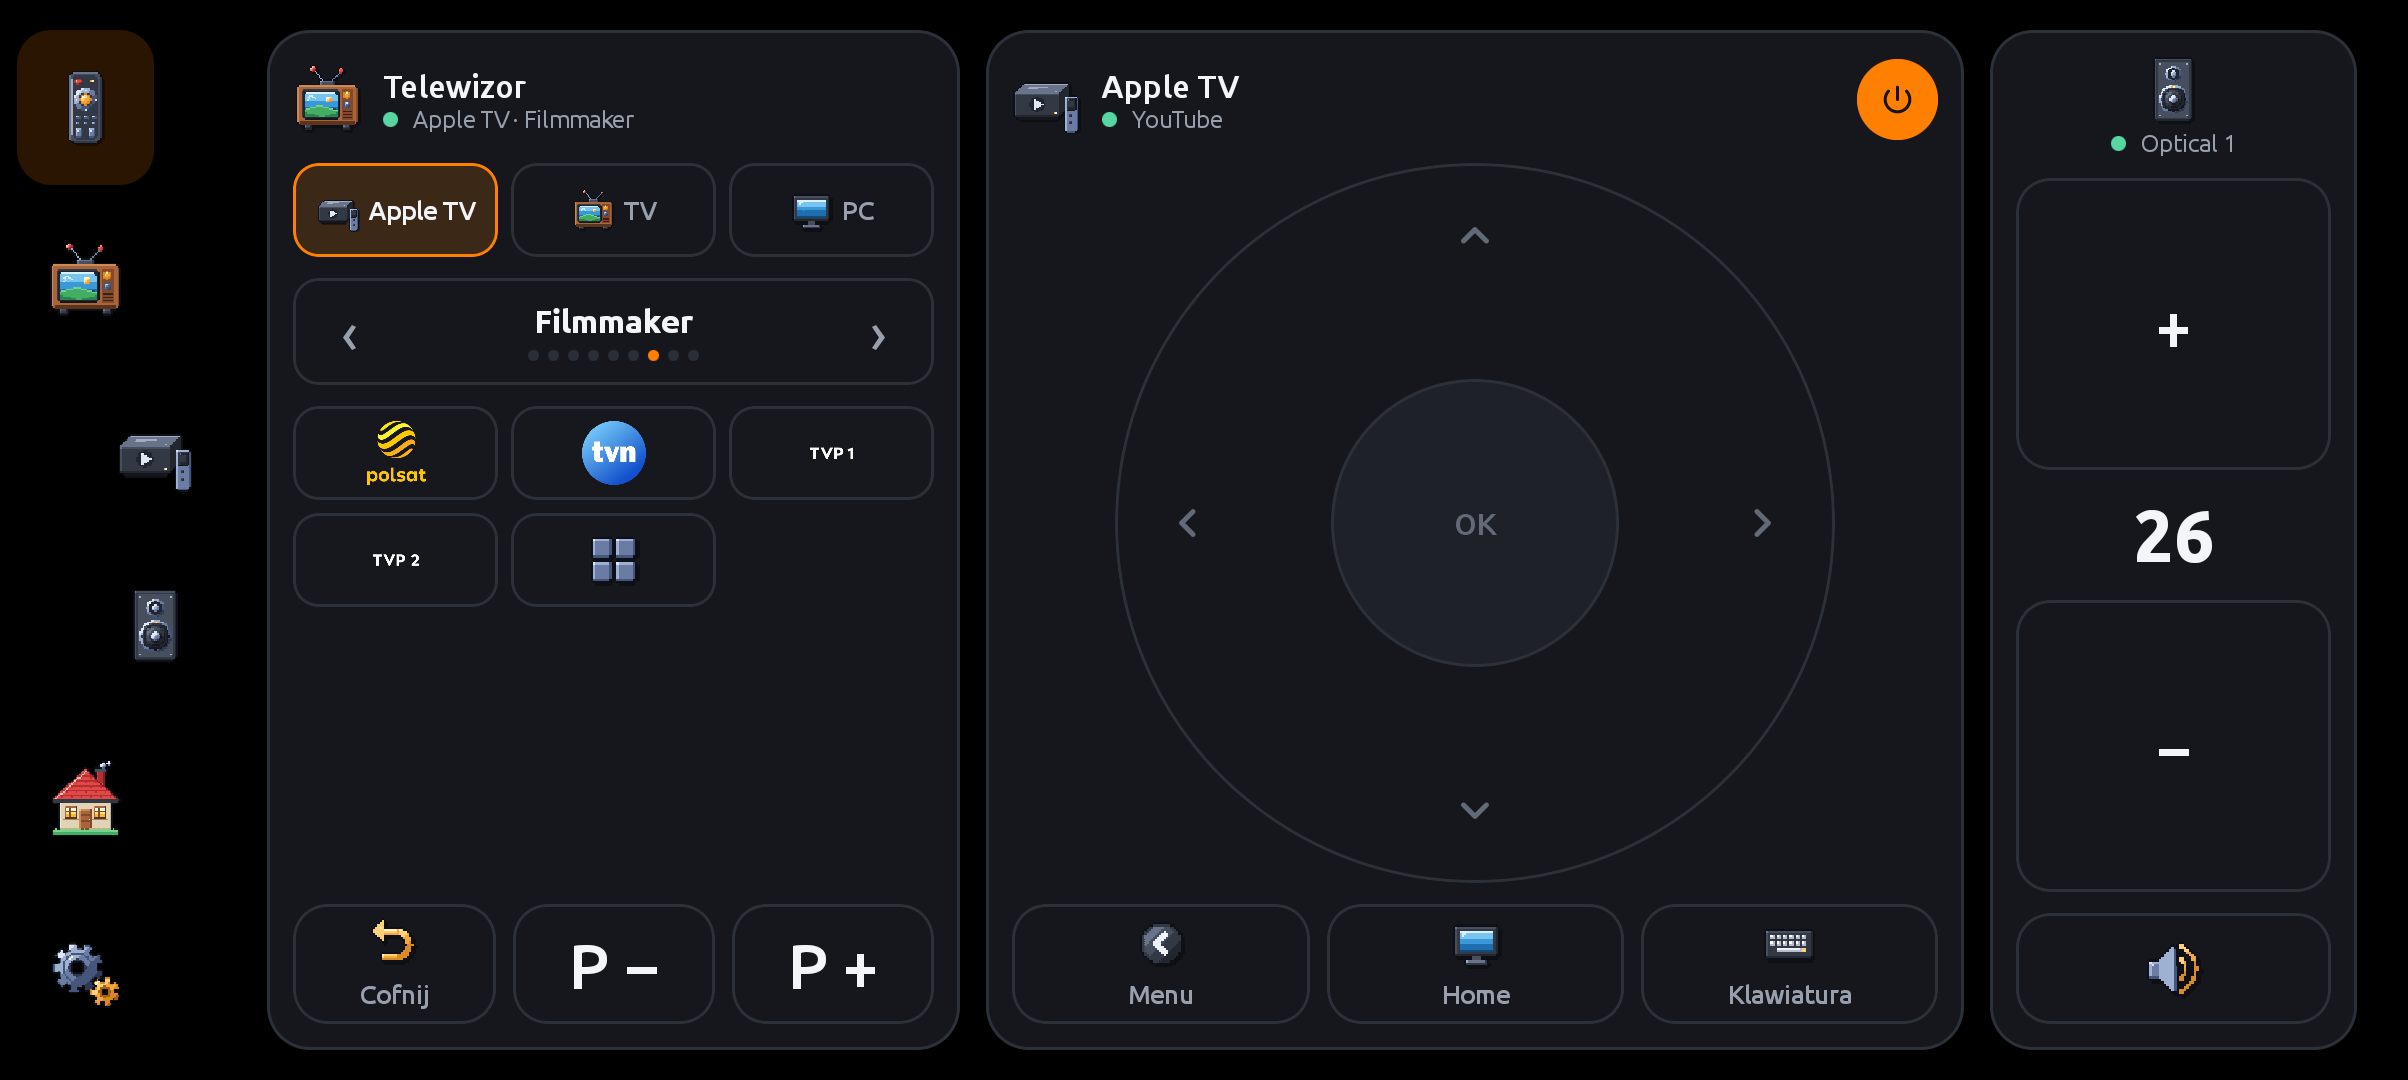
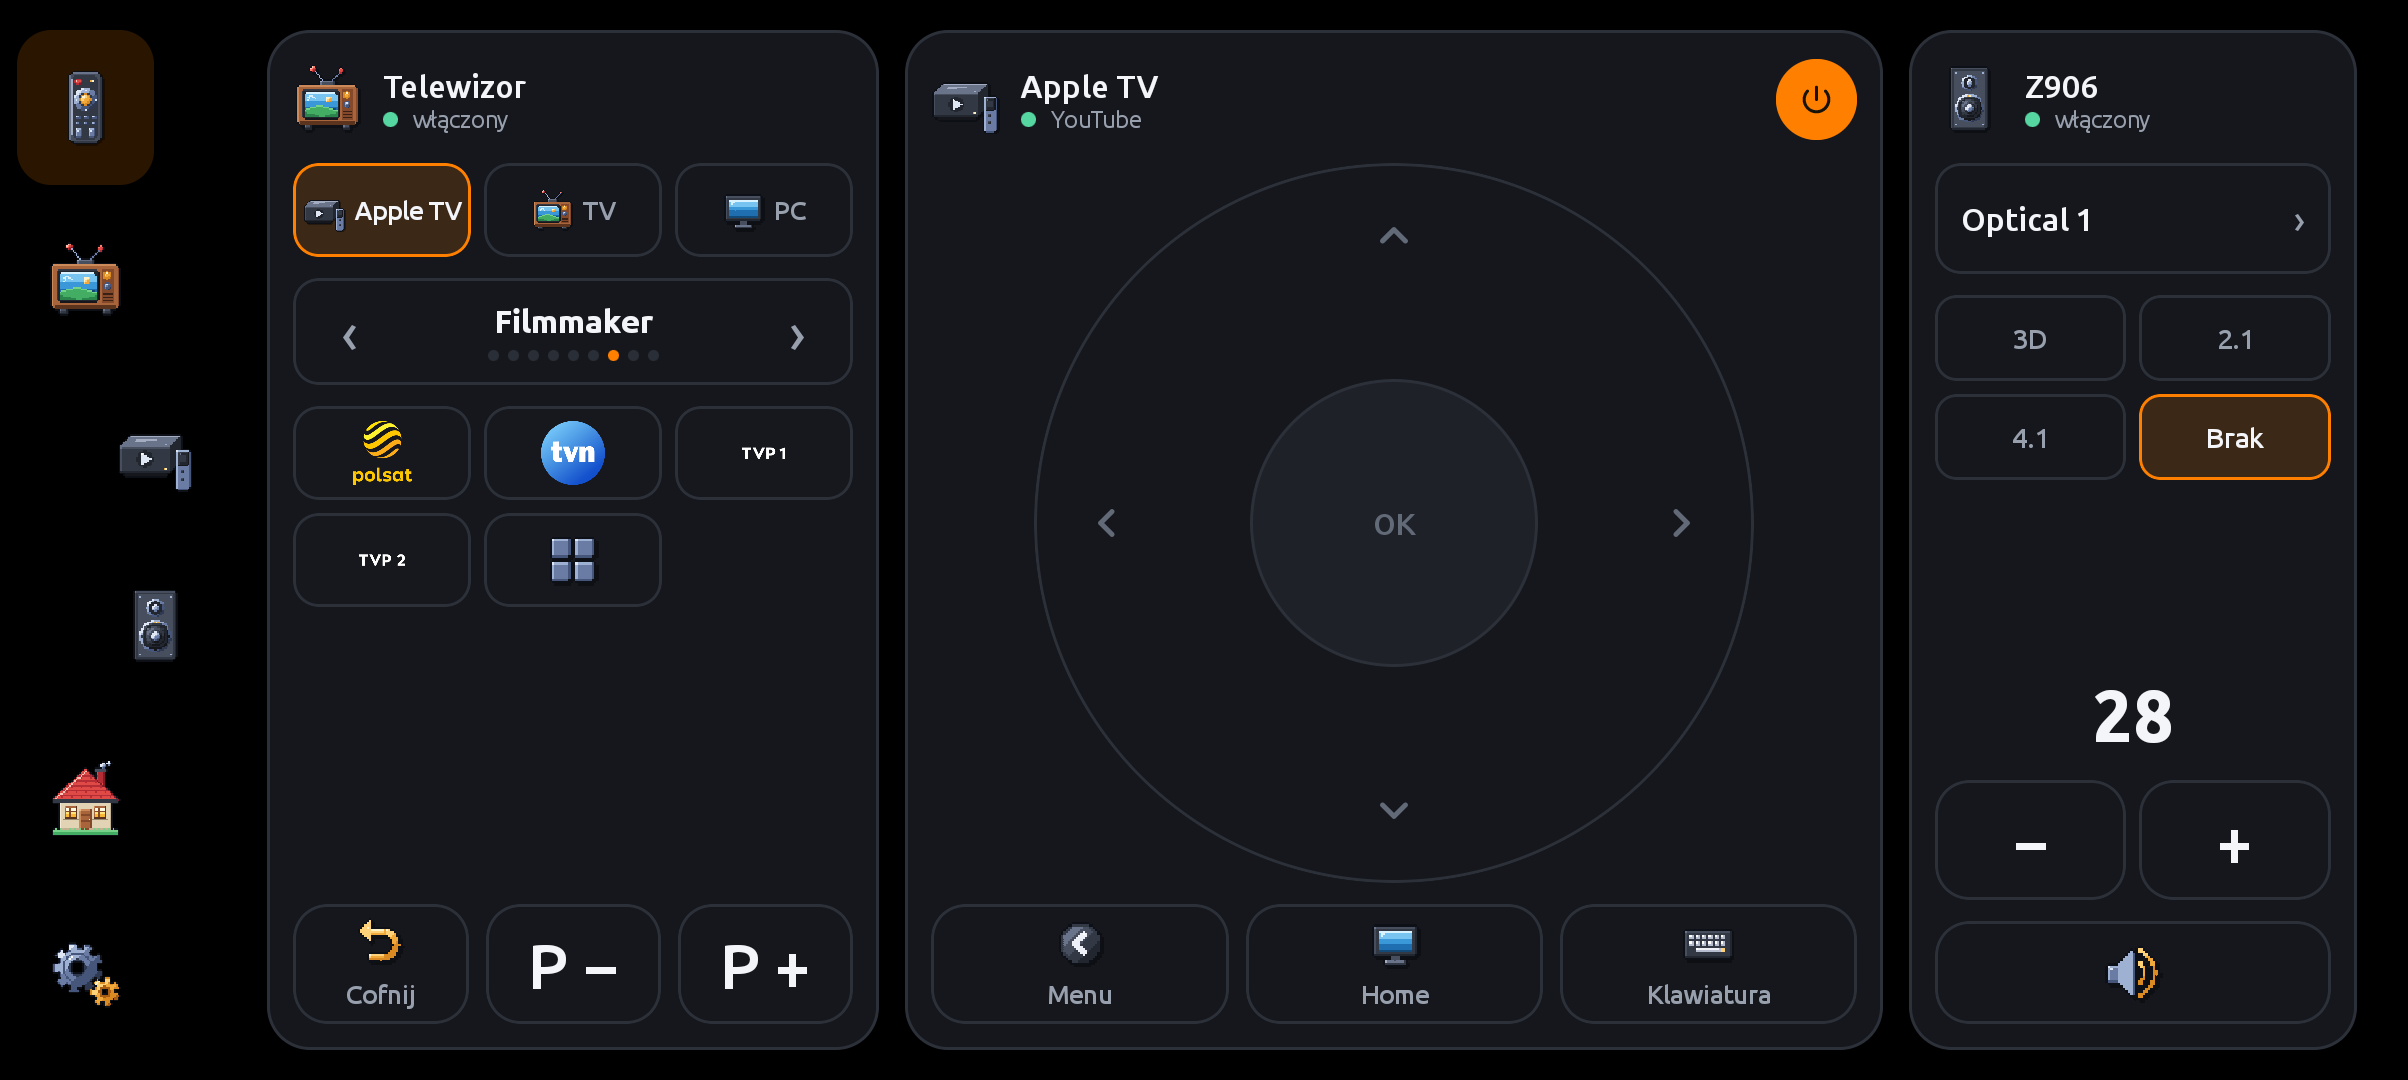
feat(android): volume column with input and effects on Pilot
Landscape Pilot: Z906 block gets a header like TV and Apple TV, the
audio input as a tile with the current value (tap opens the list) and
the four effects as explicit buttons; -/+ share one row. TV header
shows only power state and the TV column is narrower.

diff --git a/phone/native/app/src/main/java/app/couchpad/pilot/ui/remote/RemoteScreen.kt b/phone/native/app/src/main/java/app/couchpad/pilot/ui/remote/RemoteScreen.kt
@@ -35,6 +35,7 @@ import app.couchpad.pilot.data.PilotRepository
 import app.couchpad.pilot.data.PilotState
 import app.couchpad.pilot.data.Preferences
 import app.couchpad.pilot.data.TvState
+import app.couchpad.pilot.data.Z906
 import app.couchpad.pilot.ui.appletv.HomeKey
 import app.couchpad.pilot.ui.appletv.TextDialog
 import app.couchpad.pilot.ui.appletv.Trackpad
@@ -45,6 +46,7 @@ import app.couchpad.pilot.ui.components.PowerButton
 import app.couchpad.pilot.ui.components.PowerStyle
 import app.couchpad.pilot.ui.components.RepeatKey
 import app.couchpad.pilot.ui.components.StatusDot
+import app.couchpad.pilot.ui.components.asChoices
 import app.couchpad.pilot.ui.components.tap
 import app.couchpad.pilot.ui.theme.C
 import app.couchpad.pilot.ui.theme.LocalLandscape
@@ -61,7 +63,10 @@ private const val KEY_HEIGHT = 56
 /** Do tylu wejść segmenty dzielą szerokość po równo; więcej — pasek przewijany. */
 private const val MAX_EVEN_SOURCES = 4
 
-private enum class RemoteDialog { Picture, Channels }
+private enum class RemoteDialog { Picture, Channels, AudioSource }
+
+/** Efekty Z906 krótko, w kolejności `Z906.effects` (makieta docs/ux/mockup-remote-volume.html, G2). */
+private val EffectShort = listOf("3D", "2.1", "4.1", "Brak")
 
 /**
  * Pilot (tylko aplikacja, makieta docs/mockups/remote-final.html): najczęstsze sterowanie
@@ -77,12 +82,13 @@ fun RemoteScreen(state: PilotState, prefs: Preferences, repo: PilotRepository) {
     var keyboard by remember { mutableStateOf(false) }
     // Wejście wybrane, a jeszcze niepotwierdzone przez telewizor (obrys oczekujący).
     var requestedSource by remember { mutableStateOf<String?>(null) }
+    var requestedEffect by remember { mutableStateOf<String?>(null) }
     // Jak na ekranie Apple TV: klawiatura wysuwa się sama, gdy Apple TV pokaże pole tekstowe.
     LaunchedEffect(atv.keyboardActive) { if (atv.keyboardActive && prefs.keyboardAutoOpen) keyboard = true }
     val landscape = LocalLandscape.current
 
-    val tvStatus = if (!tv.power) "wyłączony" else listOf(tv.sourceLabel, tv.pictureLabel).filter { it.isNotEmpty() }
-        .joinToString(" · ").ifEmpty { "włączony" }
+    // Wejście i tryb obrazu widać w segmentach pod nagłówkiem — w nagłówku tylko stan.
+    val tvStatus = if (tv.power) "włączony" else "wyłączony"
     val sourcePending = state.isPending(Pending.Tv.source)
     val tvBlock: @Composable ColumnScope.() -> Unit = {
         BlockHeader(R.drawable.px_tv, "Telewizor", tvStatus, tv.power)
@@ -133,18 +139,40 @@ fun RemoteScreen(state: PilotState, prefs: Preferences, repo: PilotRepository) {
             Modifier.fillMaxSize().padding(start = 12.u, end = 24.u, top = 14.u, bottom = 14.u),
             horizontalArrangement = Arrangement.spacedBy(12.u),
         ) {
-            Block(Modifier.weight(0.34f).fillMaxHeight(), content = tvBlock)
+            Block(Modifier.weight(0.30f).fillMaxHeight(), content = tvBlock)
             Block(Modifier.weight(0.48f).fillMaxHeight(), content = atvBlock)
-            Block(Modifier.weight(0.18f).fillMaxHeight()) {
-                Column(Modifier.fillMaxWidth(), horizontalAlignment = Alignment.CenterHorizontally) {
-                    Pixel(R.drawable.px_audio, 32.u)
-                    Spacer(Modifier.height(2.u))
-                    StatusDot(z.source.ifEmpty { "—" }, if (audioOn) C.ok else C.faint, size = 11)
+            // Głośność (G2): nagłówek jak TV i Apple TV, wejście z listą, efekty 2 × 2, −/+ w jednym rzędzie.
+            Block(Modifier.weight(0.22f).fillMaxHeight()) {
+                BlockHeader(
+                    R.drawable.px_audio, "Z906",
+                    when {
+                        !audioOn -> "wyłączony"
+                        z.decode -> "Decode 5.1"
+                        else -> "włączony"
+                    },
+                    audioOn,
+                )
+                Card(
+                    Modifier.fillMaxWidth().height(52.u), radius = 12,
+                    pending = state.isPending(Pending.Z906.source), onClick = { dialog = RemoteDialog.AudioSource },
+                ) {
+                    // Bez podpisu „Wejście”: wartość mówi sama za siebie.
+                    Row(Modifier.fillMaxSize().padding(horizontal = 12.u), verticalAlignment = Alignment.CenterVertically) {
+                        T(z.source.ifEmpty { "—" }, 15, FontWeight.Medium, modifier = Modifier.weight(1f))
+                        T("›", 18, color = C.dim)
+                    }
                 }
-                StepKey("+", Modifier.fillMaxWidth().weight(1f)) { repo.z906VolumeStep(1) }
+                Effects(z.effect, if (state.isPending(Pending.Z906.effect)) requestedEffect else null) {
+                    requestedEffect = it
+                    repo.z906Effect(it)
+                }
+                Spacer(Modifier.weight(1f))
                 T(volume, 34, FontWeight.Bold, modifier = Modifier.align(Alignment.CenterHorizontally))
-                StepKey("−", Modifier.fillMaxWidth().weight(1f)) { repo.z906VolumeStep(-1) }
-                mute(Modifier.fillMaxWidth().height(52.u))
+                Row(Modifier.height(56.u), horizontalArrangement = Arrangement.spacedBy(6.u)) {
+                    StepKey("−", Modifier.weight(1f).fillMaxHeight()) { repo.z906VolumeStep(-1) }
+                    StepKey("+", Modifier.weight(1f).fillMaxHeight()) { repo.z906VolumeStep(1) }
+                }
+                mute(Modifier.fillMaxWidth().height(48.u))
             }
         }
     } else {
@@ -178,6 +206,9 @@ fun RemoteScreen(state: PilotState, prefs: Preferences, repo: PilotRepository) {
         RemoteDialog.Channels -> OptionDialog(
             "Kanały", state.channels.map { Choice(it.id, "${it.number}  ${it.name}") }, null, close,
         ) { id -> state.channels.firstOrNull { it.id == id }?.let { repo.tvChannel(it.name, it.id) } }
+        RemoteDialog.AudioSource -> OptionDialog(
+            "Źródło dźwięku", Z906.sources.asChoices(), z.source, close, onSelect = repo::z906Source,
+        )
         null -> Unit
     }
     if (keyboard) TextDialog(prefs.keyboardLive, onDismiss = { keyboard = false }) { repo.appleTvText(it) }
@@ -313,6 +344,30 @@ private fun Channels(modifier: Modifier, onChannel: (String) -> Unit, onMore: ()
                 if (row.size < 3) {
                     tile(Modifier.weight(1f), { Pixel(R.drawable.px_fx_more, 26.u) }, onMore)
                     repeat(2 - row.size) { Spacer(Modifier.weight(1f)) }
+                }
+            }
+        }
+    }
+}
+
+/** Cztery efekty Z906 jawnie, 2 × 2: bieżący w akcencie, wybrany czeka na potwierdzenie. */
+@Composable
+private fun Effects(current: String, requested: String?, onSelect: (String) -> Unit) {
+    Column(verticalArrangement = Arrangement.spacedBy(6.u)) {
+        Z906.effects.chunked(2).forEachIndexed { row, pair ->
+            Row(horizontalArrangement = Arrangement.spacedBy(6.u)) {
+                pair.forEachIndexed { col, effect ->
+                    val active = effect == current
+                    Card(
+                        Modifier.weight(1f).height(40.u), radius = 10,
+                        selected = active, pending = effect == requested,
+                        background = if (active) C.accentSoft else null,
+                        onClick = { if (!active) onSelect(effect) },
+                    ) {
+                        Box(Modifier.fillMaxSize(), contentAlignment = Alignment.Center) {
+                            T(EffectShort[row * 2 + col], 13, FontWeight.Medium, if (active) C.text else C.dim)
+                        }
+                    }
                 }
             }
         }
